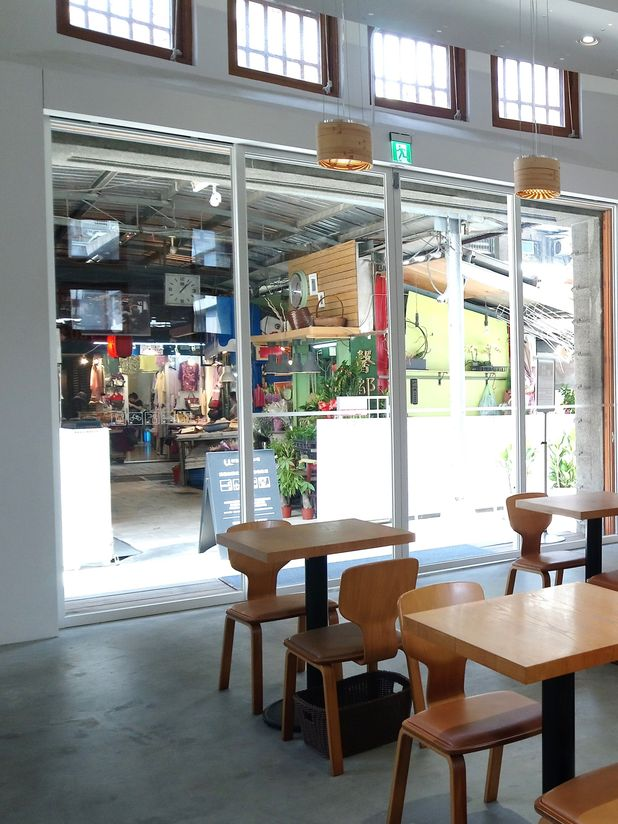
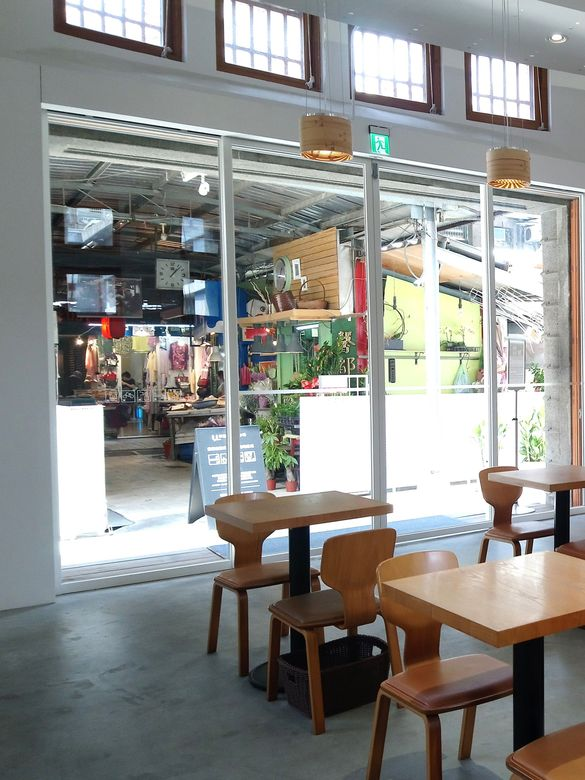
resizing images

diff --git a/img.js b/img.js
@@ -31,15 +31,15 @@ const sharp = require("sharp");
         // // Resizes the image
         // Hero Image - different images on different viewport widths
         sharp(rawImgSRC + "home-bg-sm" + jpeg)
-            .resize(618, 824)
+            .resize(Math.round(450 * 1.3), Math.round(450 * 1.3 * 4 / 3))
             .toFile(resizedImgDest + "home-bg-sm" + jpeg);
 
         sharp(rawImgSRC + "home-bg-md" + jpeg)
-            .resize(1278, 1598)
+            .resize(Math.round(931 * 1.3), Math.round(931 * 1.3 * 4 / 5))
             .toFile(resizedImgDest + "home-bg-md" + jpeg);
 
         sharp(rawImgSRC + "home-bg-lg" + jpeg)
-            .resize(2000, 1125)
+            .resize(Math.round(1500 * 1.3), Math.round(1500 * 1.3 * 9 / 16))
             .toFile(resizedImgDest + "home-bg-lg" + jpeg);
 
         sharp(rawImgSRC + "home-bg-lg" + jpeg)
@@ -52,8 +52,17 @@ const sharp = require("sharp");
 
         // OG Image: Use images with a 1.91:1 ratio and minimum recommended dimensions of 1200x630 for optimal clarity across all devices.
         sharp(rawImgSRC + "og-image" + jpeg)
-            .resize(1200 * 1.5, 630 * 1.5)
+            .resize(Math.round(1200 * 1.3), Math.round(630 * 1.3))
             .toFile(resizedImgDest + "og-image" + jpeg);
+
+        // Reservation Photo - different sizes on different viewport widths
+        sharp(rawImgSRC + "r2place-entrance" + jpeg)
+            .resize(Math.round(425 * 1.3), Math.round(257 * 1.3))
+            .toFile(resizedImgDest + "r2place-entrance-sm" + jpeg);
+
+        sharp(rawImgSRC + "r2place-entrance" + jpeg)
+            .resize(Math.round(600 * 1.3), Math.round(361 * 1.3))
+            .toFile(resizedImgDest + "r2place-entrance-md" + jpeg);
 
         //Food Images - same size on different viewport widths
         const imageNames = [
